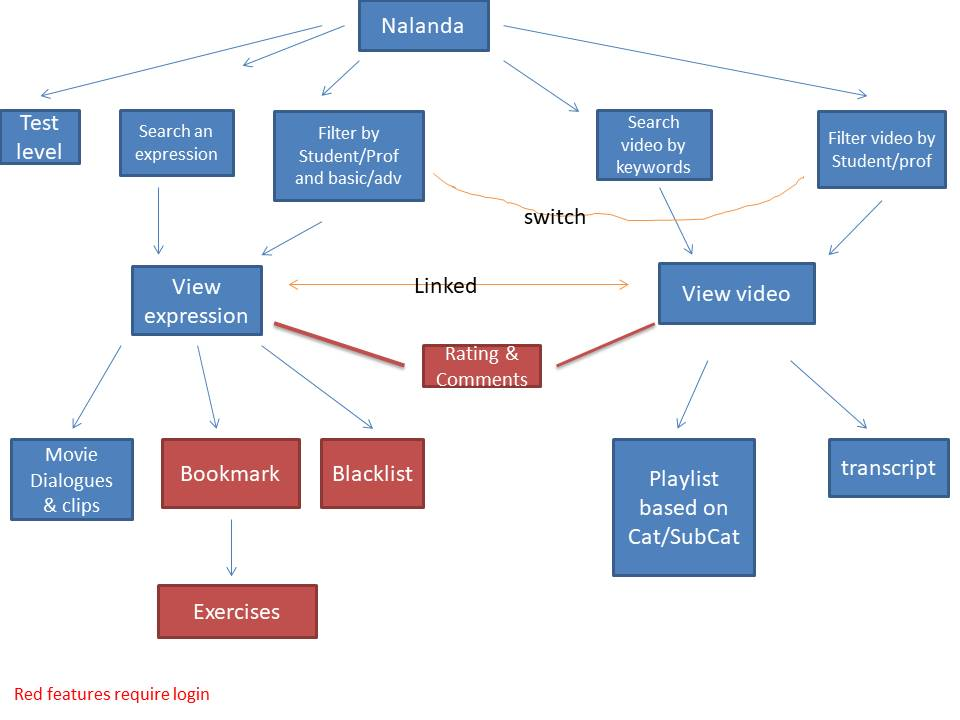
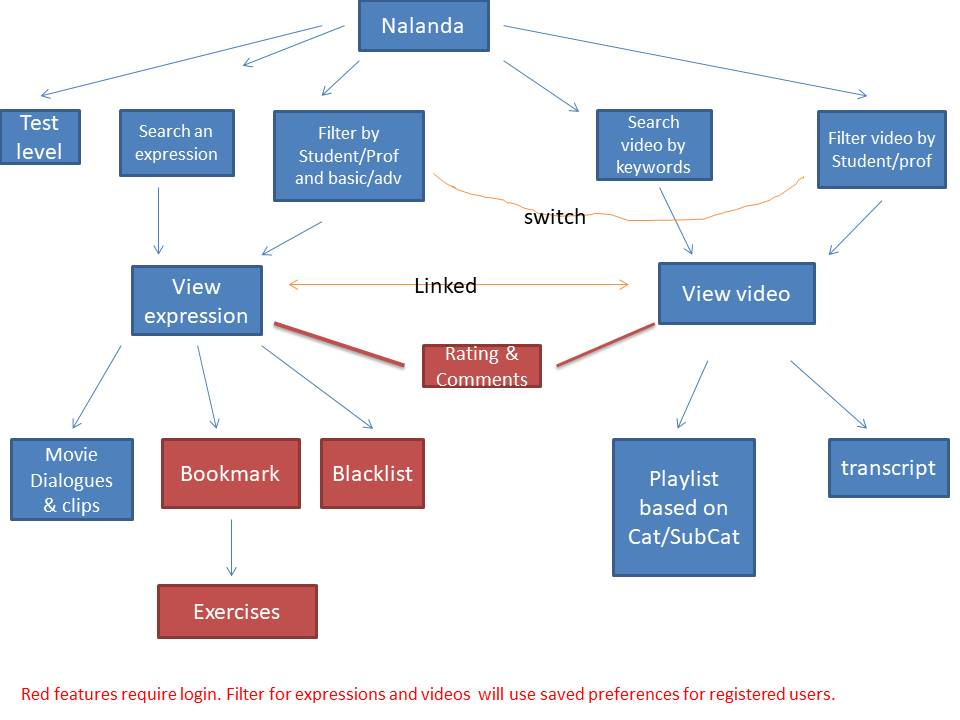
Added admin tasks and more features

Changed region(s): [[0.0, 0.9472, 0.875, 0.9778]]

diff --git a/TBD.html b/TBD.html
@@ -119,15 +119,44 @@
     with effective techniques. See the below diagram to understand the concept.
     <br> As per the diagram below, expressions 3,5,6 will be removed from the view for the user after they are moved to other
     buckets.
-    <img src="img/memorizationBuckets.jpg" alt="">
+    <img src="img/memorizationBuckets.jpg" alt="memorize">
     <br> Q. How the various entities in the website are related?
     <br> Ans: The below diagram provides high level Entity Relation Diagram(ERD). We need to discuss what attributes these entity
     will have.
     <img src="img/ERD.jpg" alt="ERD">
-    <br><br><br>
+    <br>
+    <br>
+    <br>
     <br> Q. How the flow for Student and Professional users can be understood?
     <br> Ans: The below diagram provides high level flow diagram:
-    <img src="img/flow.jpg" alt="ERD">
+    <br>
+    <br>
+    <img src="img/flow.jpg" alt="flow">
+    <br>
+    <br>
+    <br>Q. What are the tasks of admin/support staff?
+    <br> Ans:
+    <ol>
+      <li>Add update remove expressions</li>
+      <li>Add/update/remove videos</li>
+      <li>Remove offensive comment and/or user</li>
+      <li>Add/update/remove movie dialogues/clips</li>
+      <li>Add/update/remove spin a story and other exercises</li>
+      <li>??</li>
+    </ol>
+
+    <br>Q. What more features will be added?
+    <br> Ans:
+    <ol>
+      <li>Verify email of users that register with Nalanda to prevent the misuse of email someone else.</li>
+      <li>Captcha on registration page to prevent automated attack.</li>
+      <li>Dashboards for users to view their progress. We can have dashboards for (Student/Basic, Student/Advance, Professional/Basic,
+        Professional/Advance) to show the remaining , blacklisted and bookmarked expressions. What about adding popularity
+        also?</li>
+    </ol>
+
+
+
 
   </div>
 </body>

diff --git a/Register.html b/Register.html
@@ -50,7 +50,7 @@
               <li class="nav-item">
                 <a class="nav-link" href="Login.html">Login</a>
               </li>
-           
+
 
               <!-- Dropdown for Exercises-->
               <li class="nav-item dropdown">
@@ -110,8 +110,6 @@
     <!-- End of search bar -->
     <br>
     <div>
-      <br>
-      <br>
 
     </div>
     <form action="#">
@@ -140,14 +138,16 @@
         <option value="Basic">Basic</option>
         <option value="Advanced">Advanced</option>
       </select>
-<br>
+      <br>
       <label for="popularity">Popularity of Expressions: </label>
       <select name="popularity">
         <option value="High">High</option>
         <option value="Medium">Medium</option>
       </select>
 
-      <br>
+      <p style="color:red;">**You can update your preferences anytime in future. We will tailor the content for you based on your preferences.</p>
+      <p>Notes to developers: We will use the preferences set here to show the tailored content for listing of expressions and videos, Fill in the blanks exercises, ? </p>
+      
       <button type="submit" class="btn btn-primary">Submit</button>
     </form>
   </div>

diff --git a/index.html b/index.html
@@ -117,7 +117,8 @@
       <div class="col" style="font-size:large; color:red;">
         <!-- <b> Learn How To Speak English Using The Unique <a class="blink" href="FAQs.html#whatIsExpression">"Expressions Technique"</a> </b> -->
         <b> Learn To Speak English Faster And Better Using Our Unique
-          <a class="blink" href="FAQs.html#whatIsExpression">"Expressions Technique"</a>
+          <a href="FAQs.html#whatIsExpression">"Expressions Technique"</a>
+          <span class="blink">Completely Free</span>
         </b>
         <br>
         <br>
